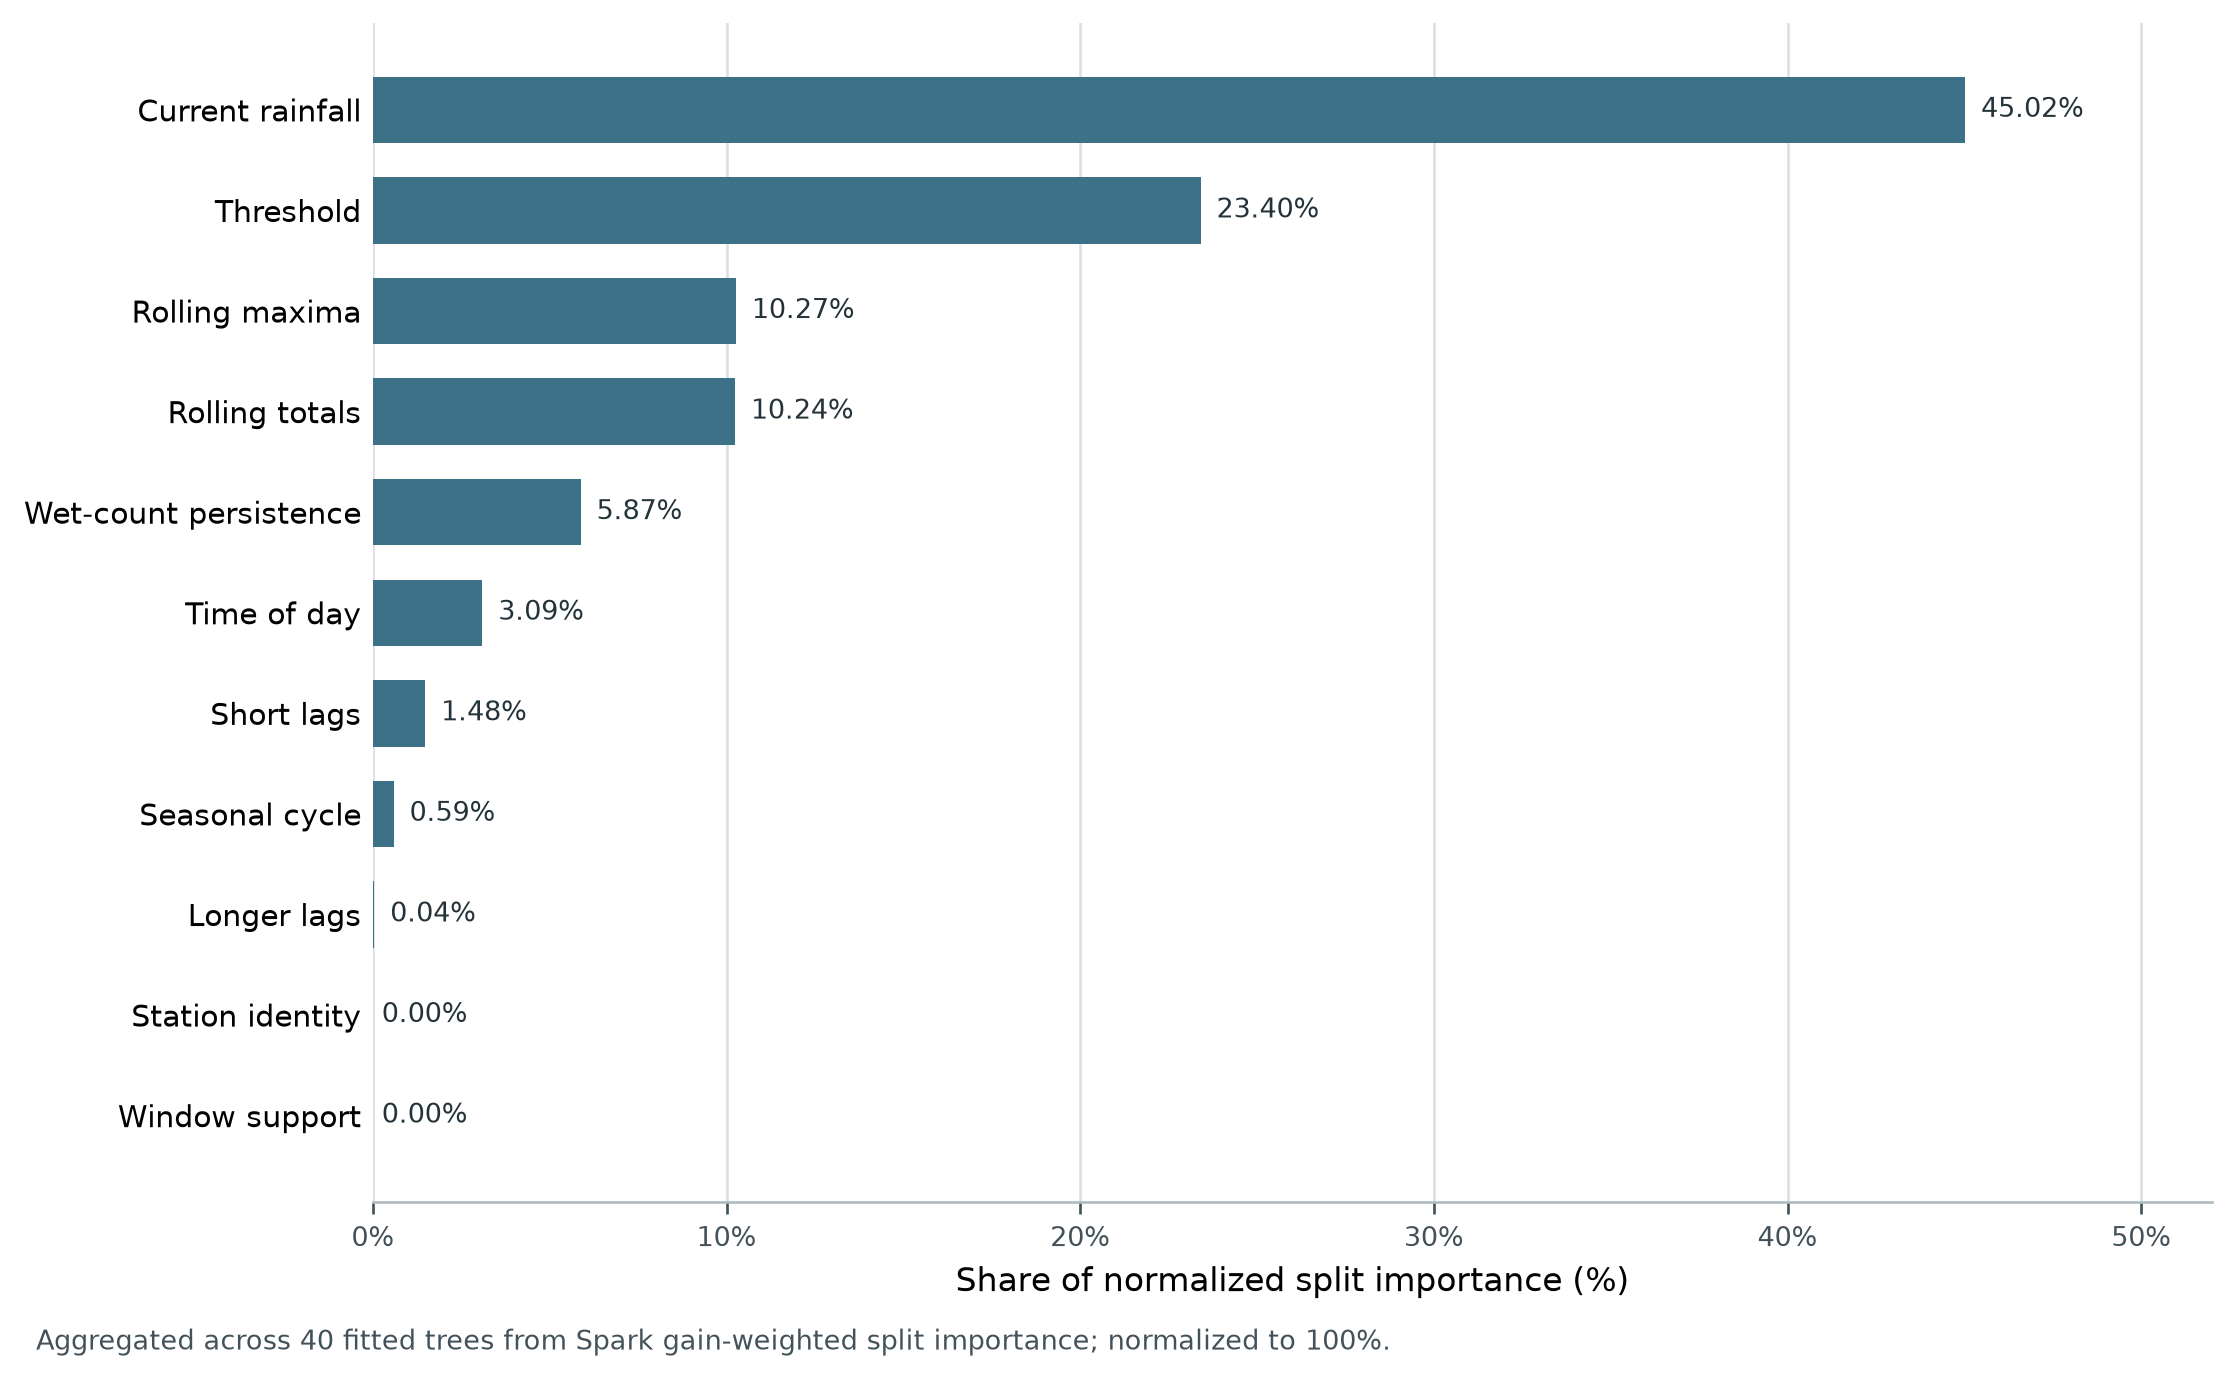
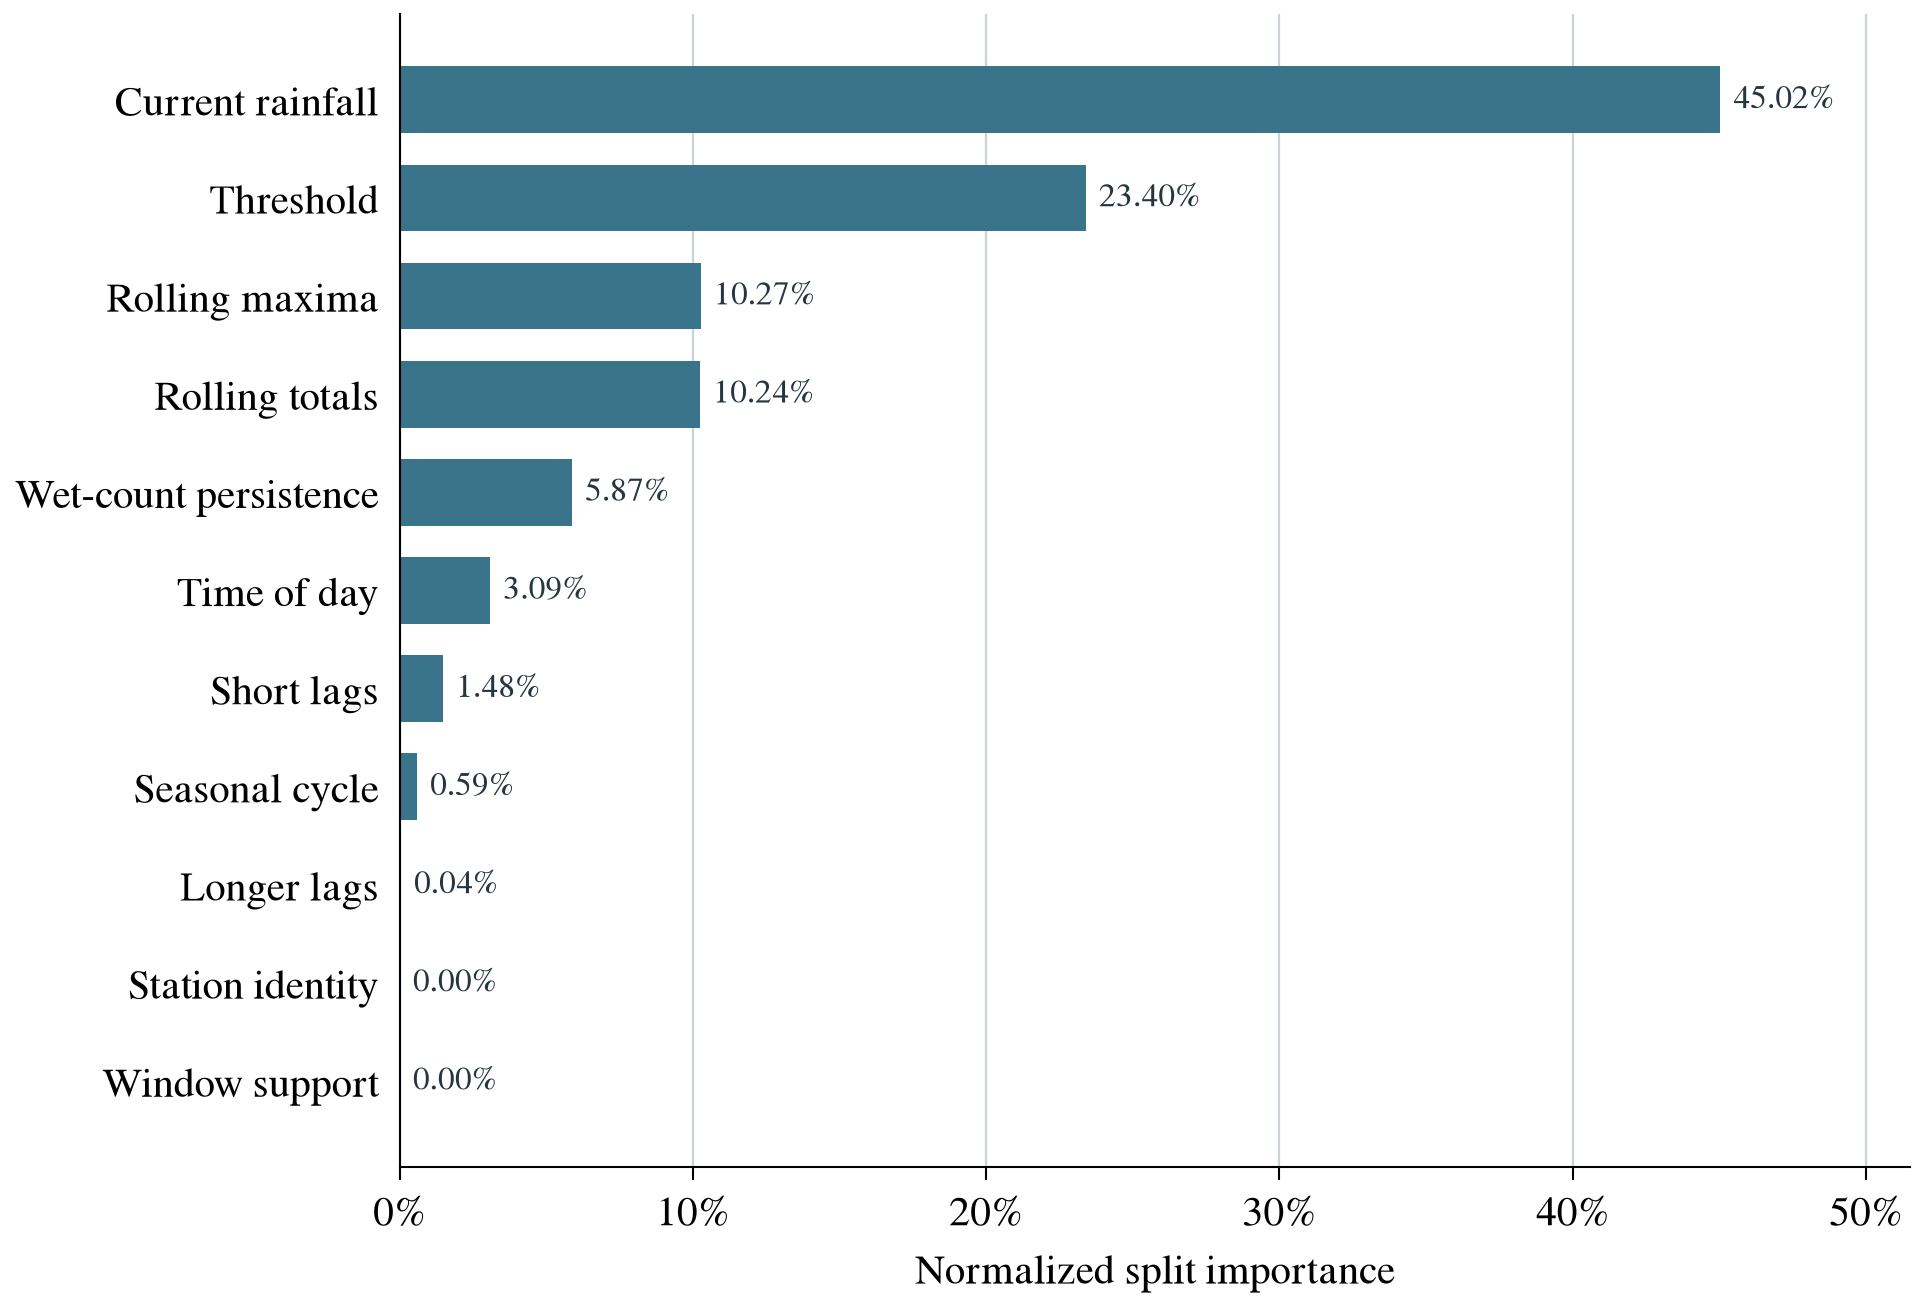
docs: redraw feature-family figure with SciencePlots

diff --git a/scripts/plot_feature_family_importance.py b/scripts/plot_feature_family_importance.py
@@ -1,0 +1,65 @@
+"""Render the report's final GBT feature-family importance figure."""
+
+from __future__ import annotations
+
+import csv
+from pathlib import Path
+
+import matplotlib.pyplot as plt
+import scienceplots  # noqa: F401  # Registers the SciencePlots styles.
+
+ROOT = Path(__file__).resolve().parents[1]
+SOURCE = ROOT / "report/tables/full-20261012/feature_family_importance.csv"
+OUTPUT = ROOT / "report/figures/full-20261012/task2/feature_family_importance.png"
+
+
+def main() -> None:
+    with SOURCE.open(newline="", encoding="utf-8") as source:
+        rows = list(csv.DictReader(source))
+
+    rows.sort(key=lambda row: float(row["normalized_importance"]), reverse=True)
+    values = [100 * float(row["normalized_importance"]) for row in rows]
+    if abs(sum(values) - 100) > 0.01:
+        raise ValueError("Feature-family importance values must sum to 100%.")
+
+    labels = [row["feature_family"] for row in rows]
+    color = "#39748A"
+    plt.style.use(["science", "no-latex"])
+
+    fig, ax = plt.subplots(figsize=(6.4, 4.35), layout="constrained")
+    positions = range(len(rows))
+    ax.barh(positions, values, height=0.68, color=color, edgecolor="none")
+    ax.set_yticks(list(positions), labels)
+    ax.invert_yaxis()
+    ax.set_xlim(0, 51.5)
+    ax.set_xticks(range(0, 51, 10), [f"{tick}%" for tick in range(0, 51, 10)])
+    ax.set_xlabel("Normalized split importance")
+    ax.set_axisbelow(True)
+    ax.xaxis.grid(True, color="#C9D3D8", linewidth=0.55)
+    ax.yaxis.grid(False)
+    ax.minorticks_off()
+
+    for position, value in enumerate(values):
+        ax.text(
+            max(value, 0) + 0.45,
+            position,
+            f"{value:.2f}%",
+            va="center",
+            ha="left",
+            fontsize=8,
+            color="#263640",
+            clip_on=False,
+        )
+
+    ax.tick_params(axis="y", length=0, pad=5, top=False, right=False)
+    ax.tick_params(axis="x", direction="out", length=3, top=False, right=False)
+    for spine in ("top", "right"):
+        ax.spines[spine].set_visible(False)
+
+    OUTPUT.parent.mkdir(parents=True, exist_ok=True)
+    fig.savefig(OUTPUT, dpi=300, facecolor="white")
+    plt.close(fig)
+
+
+if __name__ == "__main__":
+    main()

diff --git a/report/main.tex b/report/main.tex
@@ -599,9 +599,9 @@ themselves, and zero station importance here is not a station-ablation result.
 \begin{figure}[htbp]
 \centering
 \includegraphics[width=0.92\linewidth]{\figpath/task2/feature_family_importance.png}
-\caption{Normalized Spark GBT split importance aggregated by feature family
-for the selected GBT-B model. Values summarize predictive splits, not causal
-effects.}
+\caption{Normalized, gain-weighted Spark GBT split importance aggregated by
+feature family across the 40 trees in the selected GBT-B model. Importance
+summarizes predictive splits, not causal effects.}
 \label{fig:feature-family-importance}
 \end{figure}
 
